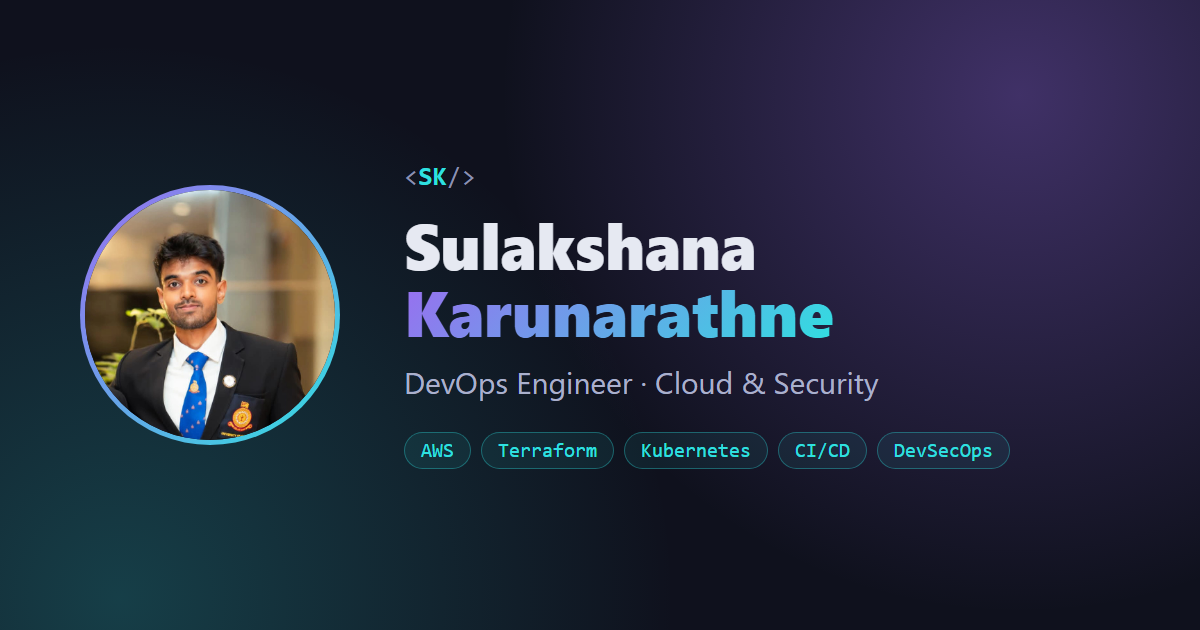
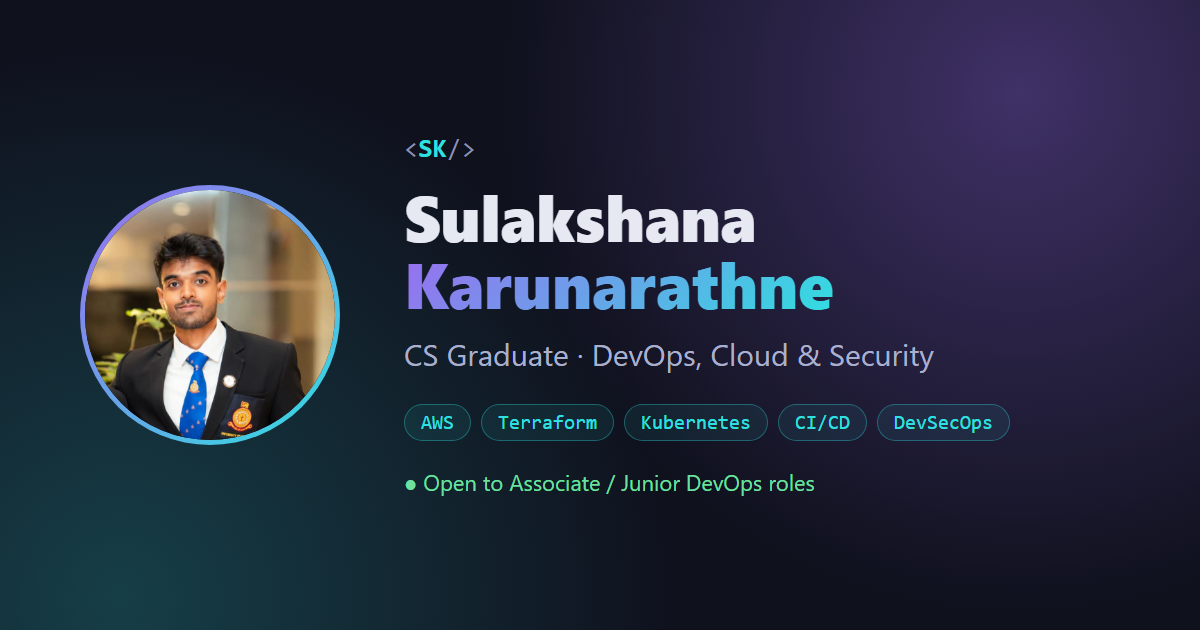
feat: graduate headline, open-to-work badge, and Hashnode write-ups feed
- Hero: "Computer Science Graduate · DevOps, Cloud & Security" tagline and
  an "Open to Associate / Junior DevOps & Cloud roles" badge; typing line
  now cycles through tools; title, meta and og-cover updated to match
- Add /api/posts Vercel function that reads the Hashnode RSS feed
  (GraphQL API is now Pro-only) and returns the latest posts as JSON
- Write-ups section merges Hashnode posts with local posts not yet
  migrated (matched by slug) and links to the full blog

Changed region(s): [[0.3392, 0.2111, 0.8325, 0.754], [0.3392, 0.754, 0.6783, 0.7841]]

diff --git a/index.html b/index.html
@@ -3,10 +3,10 @@
 <head>
   <meta charset="UTF-8" />
   <meta name="viewport" content="width=device-width, initial-scale=1.0" />
-  <title>Sulakshana Karunarathne — DevOps Engineer | AWS, Terraform, Kubernetes & Security</title>
-  <meta name="description" content="Portfolio of Sulakshana Karunarathne — DevOps engineer with an information security background. AWS, Terraform, Docker, Kubernetes, CI/CD and pipeline security." />
+  <title>Sulakshana Karunarathne — CS Graduate · DevOps, Cloud & Security</title>
+  <meta name="description" content="Portfolio of Sulakshana Karunarathne — Computer Science graduate focused on DevOps, cloud and security. AWS, Terraform, Docker, Kubernetes, CI/CD and pipeline security. Open to associate / junior DevOps roles." />
   <meta name="author" content="Sulakshana Karunarathne" />
-  <meta property="og:title" content="Sulakshana Karunarathne — DevOps Engineer" />
+  <meta property="og:title" content="Sulakshana Karunarathne — CS Graduate · DevOps, Cloud & Security" />
   <meta property="og:description" content="Cloud infrastructure, CI/CD and security engineering projects: AWS, Terraform, Docker, Kubernetes, Wazuh." />
   <meta property="og:type" content="website" />
   <meta property="og:url" content="https://myblog-sula5.vercel.app/" />
@@ -73,17 +73,22 @@
     </div>
 
     <div class="hero-content">
+      <a href="#contact" class="hero-available" id="hero-available">
+        <span class="hero-available-dot"></span>
+        Open to Associate / Junior DevOps &amp; Cloud roles
+      </a>
       <span class="hero-greeting">👋 Hello, I'm</span>
       <h1 class="hero-name">
         Sulakshana <span class="gradient-text">Karunarathne</span>
       </h1>
+      <p class="hero-tagline">Computer Science Graduate · DevOps, Cloud &amp; Security</p>
       <div class="hero-subtitle">
         <span id="typing-text"></span><span class="typing-cursor"></span>
       </div>
       <p class="hero-description">
-        DevOps engineer with an information security background. I build cloud infrastructure with
-        Terraform and AWS, ship it through CI/CD pipelines, and bake security into every stage, from
-        IAM policy to container image.
+        I build cloud infrastructure with Terraform and AWS, ship it through CI/CD pipelines, and bake
+        security into every stage, from IAM policy to container image. Six months of AppSec testing at
+        Bank of Ceylon taught me to think about security first.
       </p>
       <div class="hero-actions">
         <a href="#projects" class="btn btn-primary" id="hero-cta-projects">
@@ -123,7 +128,7 @@
       <div class="section-heading reveal">
         <span class="label">About Me</span>
         <h2>Who I Am</h2>
-        <p>DevOps engineer who builds, ships, and secures cloud infrastructure.</p>
+        <p>CS graduate who builds, ships, and secures cloud infrastructure.</p>
       </div>
 
       <div class="about-grid">
@@ -376,6 +381,10 @@
 
       <div class="writeups-grid" id="writeups-grid">
         <!-- Post cards injected by JS -->
+      </div>
+
+      <div class="writeups-more-wrap">
+        <a class="btn btn-secondary" id="writeups-more" target="_blank" rel="noopener noreferrer" hidden>All write-ups on Hashnode ↗</a>
       </div>
     </div>
   </section>

diff --git a/js/writeups.js b/js/writeups.js
@@ -1,29 +1,72 @@
 /* ============================================================
    WRITE-UPS — Post cards on the homepage
+   Shows Hashnode posts (via /api/posts, a Vercel function that reads
+   the blog's RSS feed) plus any local posts in posts.js that haven't
+   been moved to Hashnode yet (matched by slug).
    ============================================================ */
 
 import { posts, readingTime, formatDate } from './posts.js';
 
-export function initWriteups() {
+const MAX_POSTS = 6;
+
+export async function initWriteups() {
   const container = document.getElementById('writeups-grid');
   if (!container) return;
 
-  const sorted = [...posts].sort((a, b) => b.date.localeCompare(a.date));
+  const local = posts.map(post => ({
+    slug: post.slug,
+    title: post.title,
+    summary: post.summary,
+    date: post.date,
+    readMin: readingTime(post.body),
+    tags: post.tags,
+    href: `/post.html?p=${post.slug}`,
+    external: false,
+  }));
+
+  // Render local posts immediately so the section is never empty while Hashnode loads
+  render(container, local);
+
+  try {
+    // /api/posts only exists on Vercel; locally (vite dev) this 404s and local posts stay
+    const res = await fetch('/api/posts');
+    if (!res.ok) return;
+    const { blog, posts: remotePosts } = await res.json();
+    if (!blog || !remotePosts?.length) return;
+
+    const remote = remotePosts.map(p => ({ ...p, href: p.url, tags: [], external: true }));
+    const remoteSlugs = new Set(remote.map(p => p.slug));
+    render(container, [...remote, ...local.filter(p => !remoteSlugs.has(p.slug))]);
+
+    const more = document.getElementById('writeups-more');
+    more.href = blog;
+    more.hidden = false;
+  } catch {
+    // Network/API problem: keep showing local posts
+  }
+}
+
+function escapeHtml(str) {
+  return String(str).replace(/[&<>"']/g, c => ({ '&': '&amp;', '<': '&lt;', '>': '&gt;', '"': '&quot;', "'": '&#39;' }[c]));
+}
+
+function render(container, items) {
+  const sorted = [...items].sort((a, b) => b.date.localeCompare(a.date)).slice(0, MAX_POSTS);
 
   container.innerHTML = sorted.map(post => `
-    <a class="glass-card writeup-card reveal" href="/post.html?p=${post.slug}">
+    <a class="glass-card writeup-card reveal visible" href="${escapeHtml(post.href)}"${post.external ? ' target="_blank" rel="noopener noreferrer"' : ''}>
       <div class="writeup-meta">
         <time datetime="${post.date}">${formatDate(post.date)}</time>
         <span>·</span>
-        <span>${readingTime(post.body)} min read</span>
+        <span>${post.readMin} min read</span>
       </div>
-      <h3 class="writeup-title">${post.title}</h3>
-      <p class="writeup-summary">${post.summary}</p>
+      <h3 class="writeup-title">${escapeHtml(post.title)}</h3>
+      <p class="writeup-summary">${escapeHtml(post.summary)}</p>
       <div class="writeup-footer">
         <div class="project-card-tags">
-          ${post.tags.map(t => `<span class="tag">${t}</span>`).join('')}
+          ${post.tags.map(t => `<span class="tag">${escapeHtml(t)}</span>`).join('')}
         </div>
-        <span class="writeup-read">Read →</span>
+        <span class="writeup-read">Read${post.external ? ' on Hashnode ↗' : ' →'}</span>
       </div>
     </a>
   `).join('');

diff --git a/api/posts.js b/api/posts.js
@@ -1,0 +1,70 @@
+/* ============================================================
+   /api/posts — Vercel serverless function
+   Reads the Hashnode RSS feed server-side (the feed has no CORS
+   headers and Hashnode's GraphQL API now needs a paid plan) and
+   returns the latest posts as JSON for the Write-ups section.
+   ============================================================ */
+
+// Your Hashnode blog address, e.g. 'sulakshana.hashnode.dev' (or a custom domain).
+// Leave empty until the blog exists; the site then shows only local posts.
+export const HASHNODE_HOST = '';
+const MAX_POSTS = 6;
+
+export default async function handler(req, res) {
+  if (!HASHNODE_HOST) {
+    res.status(200).json({ blog: null, posts: [] });
+    return;
+  }
+
+  try {
+    const feed = await fetch(`https://${HASHNODE_HOST}/rss.xml`, {
+      headers: { 'User-Agent': 'portfolio-writeups/1.0' },
+    });
+    if (!feed.ok) throw new Error(`RSS ${feed.status}`);
+
+    const posts = parseRss(await feed.text()).slice(0, MAX_POSTS);
+
+    // Cache at Vercel's edge for an hour; serve stale for a day while refreshing
+    res.setHeader('Cache-Control', 's-maxage=3600, stale-while-revalidate=86400');
+    res.status(200).json({ blog: `https://${HASHNODE_HOST}`, posts });
+  } catch (err) {
+    res.status(502).json({ error: String(err.message || err) });
+  }
+}
+
+export function parseRss(xml) {
+  const items = xml.match(/<item>[\s\S]*?<\/item>/g) || [];
+  return items.map(item => {
+    const url = tag(item, 'link');
+    const content = tag(item, 'content:encoded');
+    const words = content.replace(/<[^>]+>/g, ' ').trim().split(/\s+/).filter(Boolean).length;
+    return {
+      slug: url.replace(/\/+$/, '').split('/').pop(),
+      title: tag(item, 'title'),
+      summary: tidySummary(tag(item, 'description')),
+      url,
+      date: new Date(tag(item, 'pubDate')).toISOString().slice(0, 10),
+      readMin: Math.max(1, Math.round(words / 220)),
+      cover: (item.match(/<enclosure[^>]*url="([^"]+)"/) || [])[1] || null,
+    };
+  });
+}
+
+function tag(item, name) {
+  const m = item.match(new RegExp(`<${name}[^>]*>([\\s\\S]*?)</${name}>`));
+  if (!m) return '';
+  const raw = m[1].trim();
+  const cdata = raw.match(/^<!\[CDATA\[([\s\S]*)\]\]>$/);
+  return cdata ? cdata[1] : decodeEntities(raw);
+}
+
+// Hashnode cuts the RSS description at ~200 chars, often mid-word
+function tidySummary(s) {
+  const text = s.trim();
+  if (text.length < 190 || /[.!?]$/.test(text)) return text;
+  return text.slice(0, text.lastIndexOf(' ')).replace(/[,;:\s]+$/, '') + '…';
+}
+
+function decodeEntities(s) {
+  return s.replace(/&lt;/g, '<').replace(/&gt;/g, '>').replace(/&quot;/g, '"').replace(/&#39;/g, "'").replace(/&amp;/g, '&');
+}

diff --git a/css/sections.css b/css/sections.css
@@ -230,11 +230,53 @@
   margin-bottom: var(--space-lg);
 }
 
-.hero-subtitle {
+.hero-available {
+  display: flex;
+  width: fit-content;
+  align-items: center;
+  gap: var(--space-sm);
+  margin: 0 auto var(--space-xl);
+  padding: 6px 16px;
+  font-size: var(--fs-sm);
+  font-weight: var(--fw-medium);
+  color: hsl(145, 65%, 65%);
+  background: hsla(145, 65%, 50%, 0.08);
+  border: 1px solid hsla(145, 65%, 50%, 0.3);
+  border-radius: var(--radius-full);
+  transition: background var(--transition-fast);
+}
+
+.hero-available:hover {
+  background: hsla(145, 65%, 50%, 0.15);
+}
+
+.hero-available-dot {
+  width: 8px;
+  height: 8px;
+  border-radius: 50%;
+  background: currentColor;
+  box-shadow: 0 0 0 0 hsla(145, 65%, 60%, 0.6);
+  animation: availablePulse 2s ease-out infinite;
+}
+
+@keyframes availablePulse {
+  70%  { box-shadow: 0 0 0 8px hsla(145, 65%, 60%, 0); }
+  100% { box-shadow: 0 0 0 0 hsla(145, 65%, 60%, 0); }
+}
+
+.hero-tagline {
   font-size: var(--fs-xl);
-  color: var(--text-secondary);
-  margin-bottom: var(--space-md);
-  min-height: 36px;
+  font-weight: var(--fw-semibold);
+  color: var(--text-primary);
+  margin-bottom: var(--space-sm);
+}
+
+.hero-subtitle {
+  font-family: var(--font-mono);
+  font-size: var(--fs-md);
+  color: var(--accent-teal);
+  margin-bottom: var(--space-lg);
+  min-height: 30px;
 }
 
 .hero-subtitle .typing-cursor {
@@ -1098,6 +1140,16 @@
   align-items: center;
   justify-content: space-between;
   gap: var(--space-md);
+}
+
+.writeups-more-wrap {
+  display: flex;
+  justify-content: center;
+  margin-top: var(--space-2xl);
+}
+
+.writeups-more-wrap .btn[hidden] {
+  display: none;
 }
 
 .writeup-read {

diff --git a/js/typing.js b/js/typing.js
@@ -7,10 +7,10 @@ export function initTyping() {
   if (!el) return;
 
   const roles = [
-    'DevOps Engineer',
     'AWS & Terraform',
-    'CI/CD & Kubernetes',
-    'DevSecOps',
+    'CI/CD with GitHub Actions',
+    'Docker & Kubernetes',
+    'Prometheus · Grafana · Wazuh',
     'Application Security',
   ];
 

diff --git a/css/responsive.css b/css/responsive.css
@@ -190,6 +190,15 @@
     font-size: var(--fs-xs);
   }
 
+  .hero-available {
+    font-size: var(--fs-xs);
+    padding: 5px 12px;
+  }
+
+  .hero-tagline {
+    font-size: var(--fs-md);
+  }
+
   .about-stats {
     grid-template-columns: 1fr;
   }
